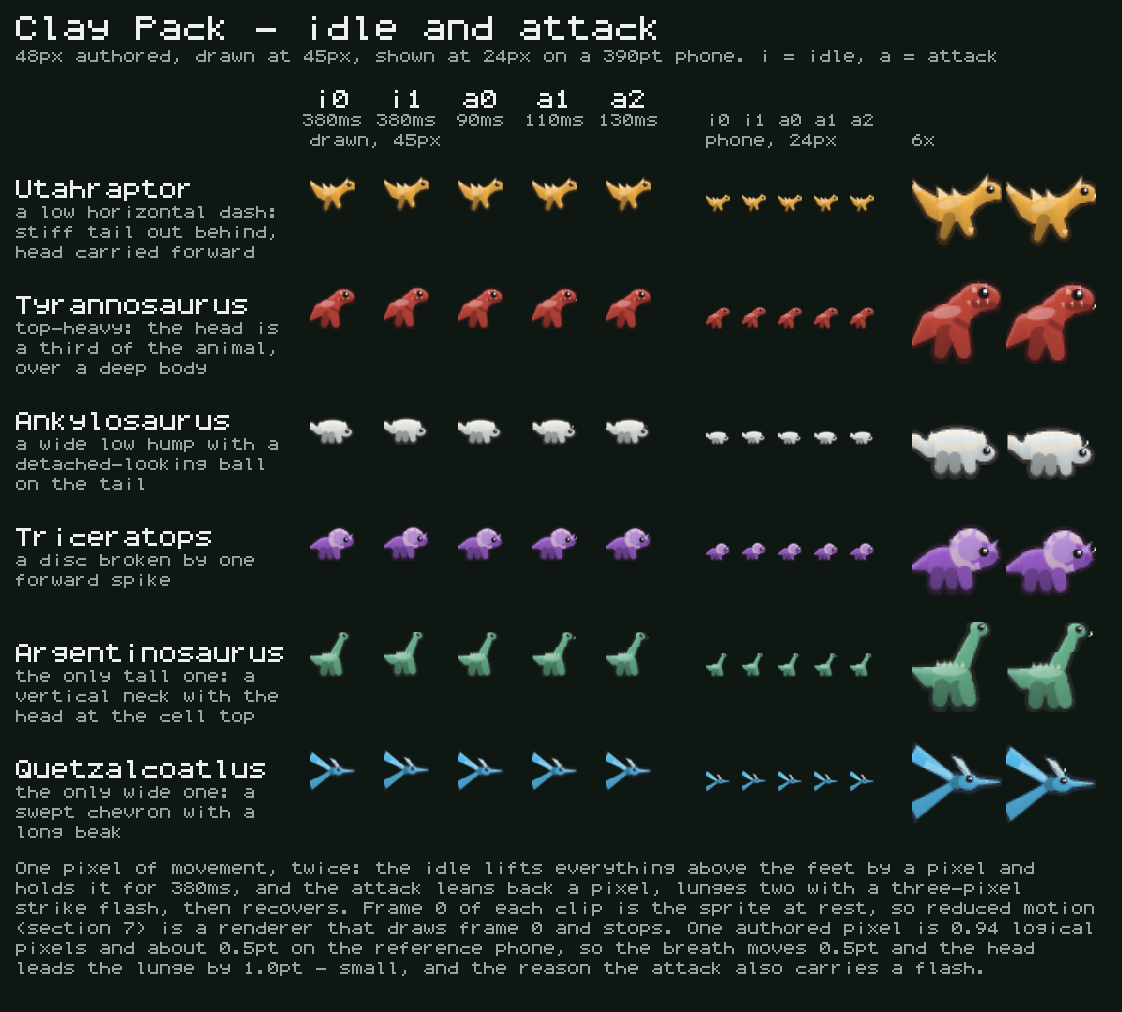
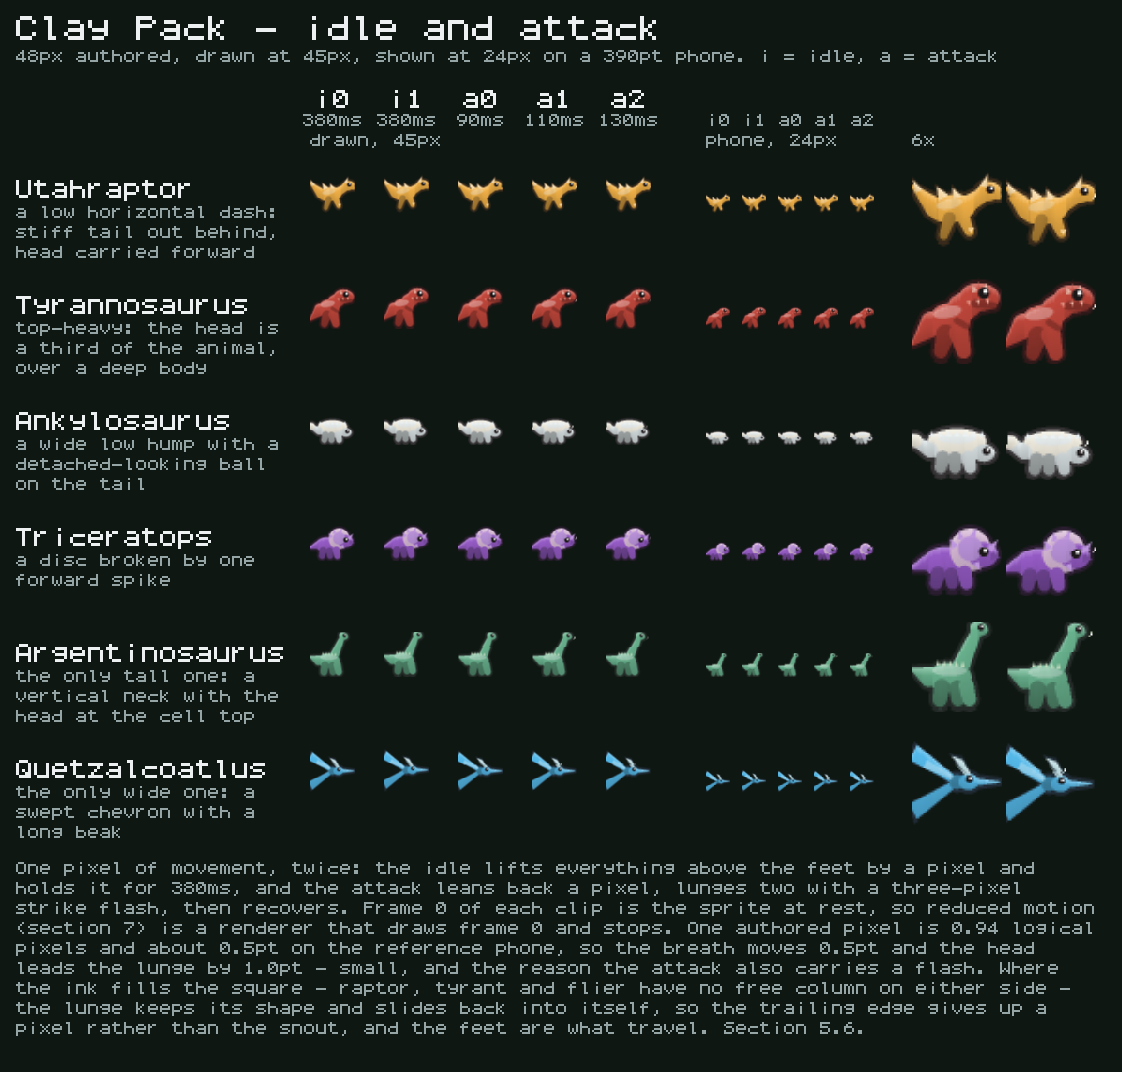
art: the lunge keeps its shape and slides, so every kind actually attacks
The merge gate on #35 found the attack clip does not do what the plate and
section 5.6 say it does, and it was right. Measured on the six Tactics Pixel
adults: raptor, tyrant and flier have fifteen pixels of ink in a fifteen
pixel square -- no free column on either side -- and no adult has one
behind. lunge() clamped each band into the square on its own, so the
wind-up's -1 became 0 on all six kinds and the strike's +2 became 0 on
three. Three of the six "attacks" were a three-pixel flash on a sprite that
never moved, while the plate the owner is meant to judge the direction from
claimed "an attack lunge on every kind".

The clamp was the wrong operation. Only the differences between the head,
body and feet bands are visible at a 19.5pt cell -- the same picture
translated is the same picture -- so the lunge is a shape, and the fix is to
preserve the shape and slide the whole figure to wherever it fits rather
than to flatten the shape against the edge.

When nothing fits, something has to give, and it is chosen rather than
accidental: the figure is pushed back until the shape fits and the trailing
edge is what falls off. A tail or a back leg loses a column; the snout never
does, because the snout is the one feature the strike frame exists to show.
That generalises the rule the old comment already stated -- clipping the
snout is worse than a smaller lunge -- instead of contradicting it.

Measured after: every kind differs from its rest frame on every attack
[…]

diff --git a/tools/art/animate.ts b/tools/art/animate.ts
@@ -85,19 +85,56 @@ function breathe(src: Raster, feet = 2): Raster {
 /**
  * A lunge: the head leads, the body follows, the feet stay.
  *
- * `lead` is the head band's shift and `follow` the body's. Both are clamped
- * to the room actually left in the square, because clipping the snout is
- * worse than a smaller lunge — and at 15px with `inset: 1` the room is
- * usually one pixel, which is the right size for this anyway.
+ * `lead` is the head band's shift and `follow` the body's, both relative to
+ * the feet. **Only the differences between the three are visible** — a frame
+ * where all three moved by the same amount is the same picture translated,
+ * and at a 19.5pt cell nobody sees the translation. So the shape of the
+ * lunge is preserved and the whole figure slides to wherever that shape
+ * fits.
+ *
+ * It does not always fit. A Tactics Pixel adult is 15px of ink in a 15px
+ * square — measured, raptor, tyrant and flier adults have **no free column
+ * on either side**, and no adult has one behind. Clamping each band into the
+ * square independently, which is what this used to do, silently turns that
+ * case into no animation at all: the wind-up's `-1` became `0` on all six
+ * kinds and the strike's `+2` became `0` on three of them, so three of the
+ * six "attacks" were a three-pixel flash on a sprite that never moved.
+ *
+ * The order of preference when the square is full:
+ *
+ * 1. **Slide, do not shrink.** Spend the free columns on whichever side has
+ *    them before giving up any of the lunge.
+ * 2. **Spend the trailing edge, never the leading one.** If the shape still
+ *    does not fit, push it as far back as the square allows and let the
+ *    *rear* of the lower bands fall off — a tail or a back leg losing a
+ *    column. Clipping the snout to buy the same pixel costs the one feature
+ *    the strike frame exists to show.
+ *
+ * At 15px the worst case is two columns off the back of a raptor, and the
+ * head still leads the feet by the full two pixels the clip asks for.
  */
 function lunge(src: Raster, lead: number, follow: number): Raster {
   const ink = inkBox(src);
-  const room = src.w - 1 - (ink.x + ink.w - 1);
+  const ahead = src.w - (ink.x + ink.w);
   const head = ink.y + Math.ceil(ink.h / 3);
   const body = ink.y + ink.h - 2;
-  const l = Math.max(Math.min(lead, room), -ink.x);
-  const f = Math.max(Math.min(follow, room), -ink.x);
-  return warp(src, (y) => ({ dx: y < head ? l : y < body ? f : 0, dy: 0 }));
+
+  // The shape, as the three band offsets, and the span it needs.
+  const hi = Math.max(lead, follow, 0);
+  const lo = Math.min(lead, follow, 0);
+  // A global slide of `g` keeps the shape and moves where it sits. It is
+  // clipping-free while `hi + g <= ahead` and `lo + g >= -ink.x`.
+  const back = -ink.x - lo;
+  const forward = ahead - hi;
+  // `back > forward` means the span is wider than the square's free columns:
+  // take `forward`, the furthest back the shape goes, which is the choice
+  // that clips the trailing edge instead of the leading one.
+  const g = back > forward ? forward : Math.min(Math.max(0, back), forward);
+
+  const l = lead + g;
+  const f = follow + g;
+  const s = g;
+  return warp(src, (y) => ({ dx: y < head ? l : y < body ? f : s, dy: 0 }));
 }
 
 /**

diff --git a/tools/art/build.ts b/tools/art/build.ts
@@ -462,7 +462,7 @@ function animationSheet(d: Direction): Raster {
   // sprite in a 45px box — and the device scale turns that into points.
   const travel = (drawn / d.spritePx) * SCALE;
   const NOTE =
-    `One pixel of movement, twice: the idle lifts everything above the feet by a pixel and holds it for 380ms, and the attack leans back a pixel, lunges two with a three-pixel strike flash, then recovers. Frame 0 of each clip is the sprite at rest, so reduced motion (section 7) is a renderer that draws frame 0 and stops. One authored pixel is ${(drawn / d.spritePx).toFixed(2)} logical pixels and about ${travel.toFixed(1)}pt on the reference phone, so the breath moves ${travel.toFixed(1)}pt and the head leads the lunge by ${(2 * travel).toFixed(1)}pt - small, and the reason the attack also carries a flash.`;
+    `One pixel of movement, twice: the idle lifts everything above the feet by a pixel and holds it for 380ms, and the attack leans back a pixel, lunges two with a three-pixel strike flash, then recovers. Frame 0 of each clip is the sprite at rest, so reduced motion (section 7) is a renderer that draws frame 0 and stops. One authored pixel is ${(drawn / d.spritePx).toFixed(2)} logical pixels and about ${travel.toFixed(1)}pt on the reference phone, so the breath moves ${travel.toFixed(1)}pt and the head leads the lunge by ${(2 * travel).toFixed(1)}pt - small, and the reason the attack also carries a flash. Where the ink fills the square - raptor, tyrant and flier have no free column on either side - the lunge keeps its shape and slides back into itself, so the trailing edge gives up a pixel rather than the snout, and the feet are what travel. Section 5.6.`;
   const proseCols = Math.floor((width - labelX * 2) / (6 * fontScale(TYPE.label)));
   const noteLines = wrap(NOTE, proseCols, 99);
 

diff --git a/docs/01-art-hud-and-audio.md b/docs/01-art-hud-and-audio.md
@@ -1301,6 +1301,42 @@ sprite's contact with the cell floor — 5.0's anchor — does not move. An idle
 that changed the anchor would make every dinosaur on the board jitter against
 its own tile.
 
+**The attack may move it, and on half the kinds it has to.** The lunge is a
+shape — head ahead of body ahead of feet — and only the *differences* between
+the three bands are visible at a 19.5pt cell; the same picture translated is
+the same picture. So the shape is preserved and the whole figure slides to
+wherever it fits.
+
+It does not always fit, and Tactics Pixel is the direction where it does not.
+A 15px square holding 15px of ink has no free column to lunge into:
+
+| adult | ink | free behind | free ahead |
+| --- | --- | --- | --- |
+| raptor, tyrant, flier | 15 wide | 0 | 0 |
+| armored, horned | 14 wide | 0 | 1 |
+| longneck | 13 wide | 0 | 2 |
+
+**No adult has a free column behind it, and three have none on either side.**
+Clamping each band into the square independently — the obvious
+implementation, and the one this started as — turns that into *no animation
+at all*: the wind-up's one pixel back became zero on all six kinds, and the
+strike's two forward became zero on three of them, leaving a three-pixel
+flash on a sprite that never moved. The plate said "an attack lunge on every
+kind" and the pixels did it on half.
+
+So when the square is full the figure is pushed **back** until the shape fits
+and the *trailing* edge is what falls off — a tail or a back leg losing a
+column, never the snout, because the snout is the one feature the strike
+frame exists to show. Measured across the six adults the cost is 0 to 2
+pixels of ink, and every kind now differs from its rest frame on every
+attack frame.
+
+The honest consequence: on a full-square kind the feet are what visibly
+travel, and the animal recoils by a pixel or two over the clip rather than
+planting. At 90–130ms that reads as a strike. It is also why `attack` and
+`idle` are specified separately rather than as one rule — **the idle's
+promise not to move the anchor is not a promise the attack makes.**
+
 **Frame names** extend 5.5's rule rather than replacing it:
 `<kind>-<stage>` stays the rest frame, and an animated atlas adds
 `<kind>-<stage>-<clip><n>` — `raptor-3-idle1`, `raptor-3-attack0`. Everything
